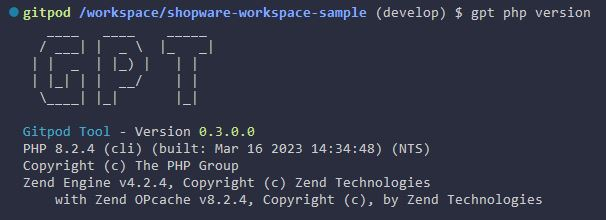
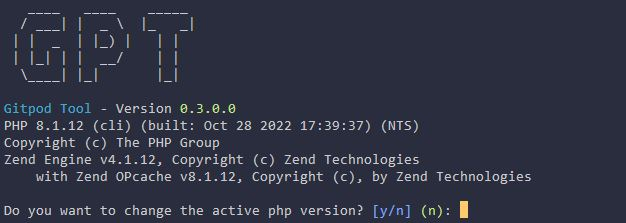
Updated the guide page with the commands/changes for version 0.4.0

Changed region(s): [[0.0, 0.4091, 0.8911, 0.9818], [0.0, 0.0273, 0.9802, 0.4091], [0.2079, 0.3545, 0.2376, 0.4091]]

diff --git a/docs/.vitepress/config.js b/docs/.vitepress/config.js
@@ -47,6 +47,8 @@ export default defineConfig({
                 { text: 'Apache', link: '/guide/usage/commands/apache' },
                 { text: 'MySQL', link: '/guide/usage/commands/mysql' },
                 { text: 'Services', link: '/guide/usage/commands/services' },
+                { text: 'Restore', link: '/guide/usage/commands/restore' },
+                { text: 'Ask', link: '/guide/usage/commands/ask' },
               ]
             }
           ]

diff --git a/docs/guide/usage/commands/php.md b/docs/guide/usage/commands/php.md
@@ -8,10 +8,15 @@ With the command `gpt php version` you can see the current PHP Version.
 ![GPT PHP Version](./../../../assets/images/gpt_php_version1.jpg)
 
 ## Selecting a PHP Version
-With the command `gpt php select` you can select a PHP Version from the list of available PHP Versions. The list is generated from the PHP Versions that are installed in the workspace. 
+::: danger
+Since v0.4.0 the command `gpt php select` is no longer available
+:::
 
-After you have selected a new PHP Version, it will be saved in the `.gpt.yml` file and will be used the next time you start the workspace.
-The selected version will be saved in the `.gpt.yml` file and will be used the next time you start the workspace.
+With the same command as above, `gpt php version`, you can not only see the current active version but also you will get asked if you want to change it. Answer the question with `y` and the following list will be shown:
+
+![GPT PHP Version](./../../../assets/images/gpt_php_version2.jpg)
+
+Use the arrow keys to select the new version and press enter. GPT will now switch to the new version. Additionally it will be saved in the `.gpt.yml` file and will be used the next time you start the workspace.
 
 ## Changing a PHP Setting
 With the command `gpt php ini set <setting> <value>` you can change a PHP Setting. The setting will be saved in the `.gpt.yml` file and directly applied.
@@ -19,7 +24,11 @@ With the command `gpt php ini set <setting> <value>` you can change a PHP Settin
 ![GPT PHP Version](./../../../assets/images/gpt_php_ini_set1.jpg)
 
 ## Restoring PHP Settings
-With the command `gpt php restore` the selected PHP Version and Settings will be restored. This command should be executed within your ´.gitpod.yml`. As example, you can see the following `.gitpod.yml` file:
+::: info
+With release v0.4.0 there is a new command that restores all settings
+:::
+
+With the command `gpt php restore` the selected PHP Version and Settings will be restored. This command should be executed within your `.gitpod.yml`. As example, you can see the following `.gitpod.yml` file:
 
 ```yaml:line-numbers {1}
 tasks:

diff --git a/docs/guide/extensions.md b/docs/guide/extensions.md
@@ -3,9 +3,9 @@
 ## How does it work?
 GPT can be extended via shell scripts. This means it scans a certain directory and looks for *.sh files.
 
-::: info
-In one of the next releases additional directories can be specified.
-:::
+## Locations
+
+The default folder GPT scans for extensions is the `.devEnv/gitpod/scripts` folder. Since version 0.4.0 you can also define additional folders that will be included in the scan. Check the [Reference section](/reference/shell-scripts) to see on how this can be done.
 
 ## Advantage
 While most systems have a build-in console with commands, you may need to add custom shell scripts that execute cronjobs, init your system (composer install, npm/yarn install etc.), run tests, load demo data or do some stuff after a branch change. So after a while you might have a dozen of these scripts and while for some developers it might be easy to identify which script does what, not all of them know it. Another thing is that your scripts might use arguments, so that you need to take a look inside the script to check which it has and for what purpose.

diff --git a/docs/guide/usage/commands/nodejs.md b/docs/guide/usage/commands/nodejs.md
@@ -1,3 +1,16 @@
-# NodeJS Commands
+# NodeJS Commands <Badge type="info" text="since v0.4.0" />
 
-***Work in progress***
+With this command you can change the currently active NodeJS version.
+
+## Show the current NodeJS Version <Badge type="info" text="since v0.4.0" />
+With the command `gpt nodejs version` you can see the current NodeJS Version.
+
+![GPT NodeJS Version](./../../../assets/images/gpt_nodejs_version1.jpg)
+
+## Selecting a NodeJS Version <Badge type="info" text="since v0.4.0" />
+
+With the same command as above, `gpt nodejs version`, you can not only see the current active version but also you will get asked if you want to change it. Answer the question with `y` and the following list will be shown:
+
+![GPT NodeJS Version](./../../../assets/images/gpt_nodejs_version2.jpg)
+
+Use the arrow keys to select the new version and press enter. GPT will now switch to the new version. Additionally it will be saved in the `.gpt.yml` file and will be used the next time you start the workspace.

diff --git a/docs/guide/usage/commands/ask.md b/docs/guide/usage/commands/ask.md
@@ -1,0 +1,10 @@
+# Ask Command <Badge type="info" text="since v0.4.0" />
+
+This command provides the possibility to ask the Gitpod Ai questions, similar to ChatGPT, just only for questions related to gitpod. In the future this documentation might be included too, so that you can ask questions about GPT too.
+
+## Ask a question <Badge type="info" text="since v0.4.0" />
+With the command `gpt ask` you will be prompted to enter your question.
+
+![GPT ask](./../../../assets/images/gpt_ask.jpg)
+
+In this example i asked "What is gitpod?" and the answer is divided into three sections. The first one is the answer itself, the second one gives some links related to the given answer and the last one shows the rate limit. With the rate limit it is limited on how many questions you can ask in a specific timeframe.

diff --git a/docs/guide/usage/commands/restore.md b/docs/guide/usage/commands/restore.md
@@ -1,0 +1,12 @@
+# Restore Commands <Badge type="info" text="since v0.4.0" />
+
+With this command different settings can be restored from the `.gpt.yml` file
+
+## Restore all <Badge type="info" text="since v0.4.0" />
+With the command `gpt restore all` all of the following commands will be executed.
+
+## Restore PHP Settings <Badge type="info" text="since v0.4.0" />
+With the command `gpt restore php` the selected PHP Version and the configured settings will be restored.
+
+## Restore NodeJS version <Badge type="info" text="since v0.4.0" />
+With the command `gpt restore nodejs` the selected NodeJS version will be restored.

diff --git a/docs/guide/usage/commands/update.md b/docs/guide/usage/commands/update.md
@@ -6,5 +6,5 @@ The purpose of the update command is to install the latest version of GPT if the
 In older versions, downloading a new version of GPT needed to be done after every workspace restart. This has been changed in Version 0.4 where the new version will be moved to the workspace folder, so it will be saved and can be reused after a restart.
 :::
 
-## Pre-Release Versions
+## Pre-Release Versions <Badge type="info" text="since v0.4.0" />
 If you want to test versions that are not ready yet for productive usage, you can activate it with a settings in the `.gpt.yml` file. [See reference](/reference/config.html)

diff --git a/docs/reference/php.md b/docs/reference/php.md
@@ -64,4 +64,14 @@ php:
         max_execution_time: 0
         memory_limit: 0
 ```
-  
+
+### packages <Badge type="info" text="since v0.4.0" />
+If you want to install additional packages, you can add them here and they will be installed via the `gpt restore php` command.
+
+Example:
+```yaml:line-numbers {1}
+php:
+  packages:
+  - php8.0-curl
+  - php8.0-zip
+```
